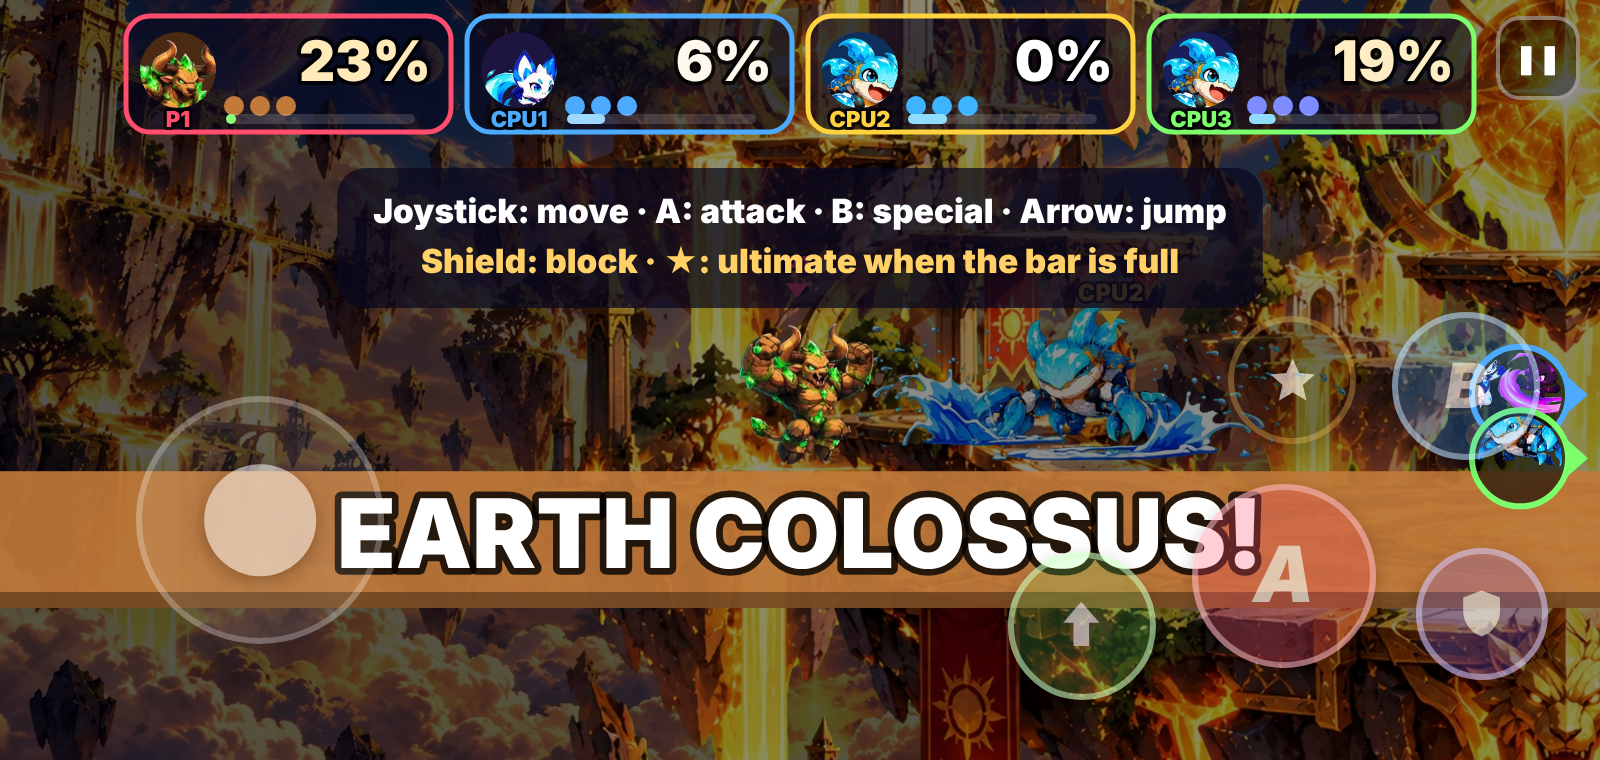
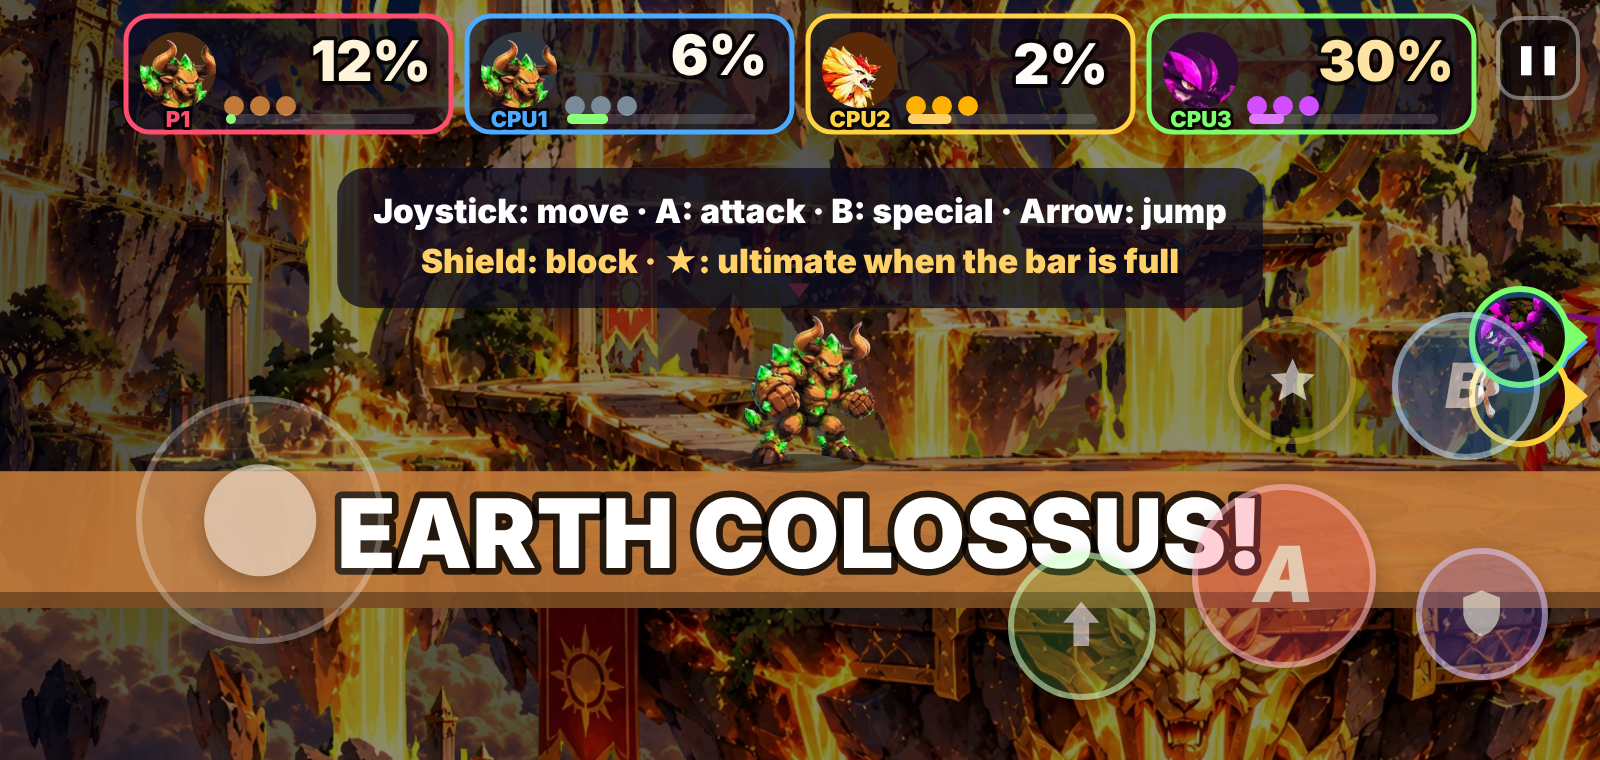
PLAY começa a luta na hora (mais gente chega à luta no CrazyGames)
- PLAY: último lutador escolhido contra oponente e arena sorteados; bot fácil nas primeiras lutas
- CHOOSE FIGHTER leva à seleção completa como antes

Claude-Session: https://claude.ai/code/session_0144feCwwVd7Wm19kTUF7Xzk

diff --git a/web/js/ui.js b/web/js/ui.js
@@ -417,6 +417,14 @@
       })
     );
     document.querySelectorAll('[data-back]').forEach((b) => b.addEventListener('click', () => ui.onBack()));
+    // JOGAR: luta na hora (último lutador escolhido, oponente e arena sorteados); nas primeiras lutas, bot fácil
+    $('#quickPlay').addEventListener('click', () => {
+      click();
+      const opp = U.pick(RR.chars.list.filter((c) => c !== cfg.char));
+      cfg.stage = U.pick(RR.stages.list);
+      const easy = U.store.get('help', 0) < 2;
+      ui.startMatch([{ charId: cfg.char, type: 'human' }, { charId: opp, type: 'cpu', level: easy ? 0 : cfg.level }]);
+    });
     $('#toStage').addEventListener('click', () => {
       if (sc.mode === 'win') return;
       click();

diff --git a/web/index.html b/web/index.html
@@ -24,7 +24,8 @@
       <h1 class="logo"><img src="img/logo-texto.webp" alt="Rift Rumble"></h1>
       <p class="tagline">Lute. Lance. Derrube da arena.</p>
       <div class="menu">
-        <button class="btn big primary" data-go="select">JOGAR</button>
+        <button class="btn big primary" id="quickPlay">JOGAR</button>
+        <button class="btn" data-go="select">ESCOLHER LUTADOR</button>
         <button class="btn" data-go="howto">COMO JOGAR</button>
         <button class="btn" data-go="options">OPÇÕES</button>
       </div>

diff --git a/web/js/i18n.js b/web/js/i18n.js
@@ -7,6 +7,7 @@
     // ---------- menus ----------
     'Lute. Lance. Derrube da arena.': 'Fight. Launch. Knock them off the arena.',
     'JOGAR': 'PLAY',
+    'ESCOLHER LUTADOR': 'CHOOSE FIGHTER',
     'COMO JOGAR': 'HOW TO PLAY',
     'OPÇÕES': 'OPTIONS',
     'ESCOLHA SEU LUTADOR': 'CHOOSE YOUR FIGHTER',
